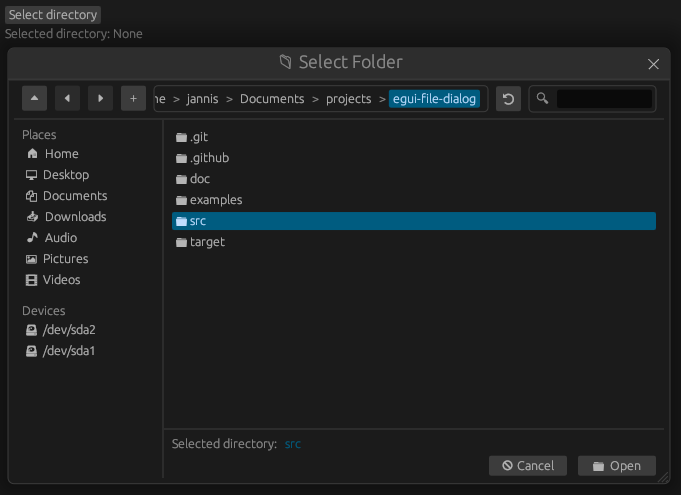
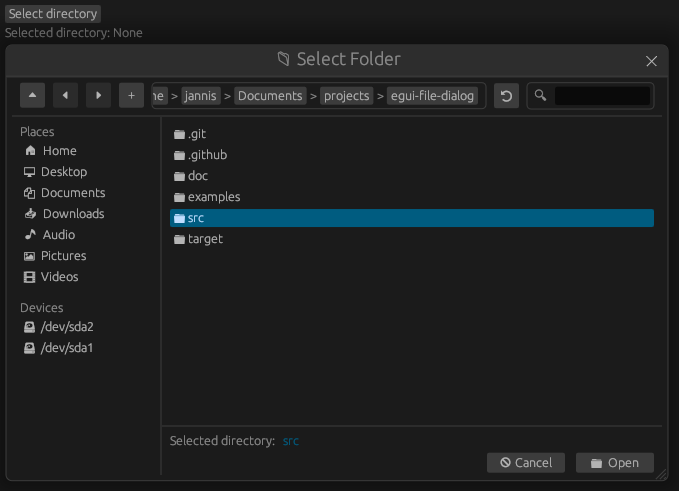
Update UI of top panel

diff --git a/src/file_dialog.rs b/src/file_dialog.rs
@@ -434,9 +434,7 @@ impl FileDialog {
                                             ui.label(">");
                                         }
 
-                                        let is_last = data.components().count() - 1 == i;
-
-                                        if ui.selectable_label(is_last, file_name).clicked() {
+                                        if ui.button(file_name).clicked() {
                                             let _ = self.load_directory(path.as_path());
                                             return;
                                         }
